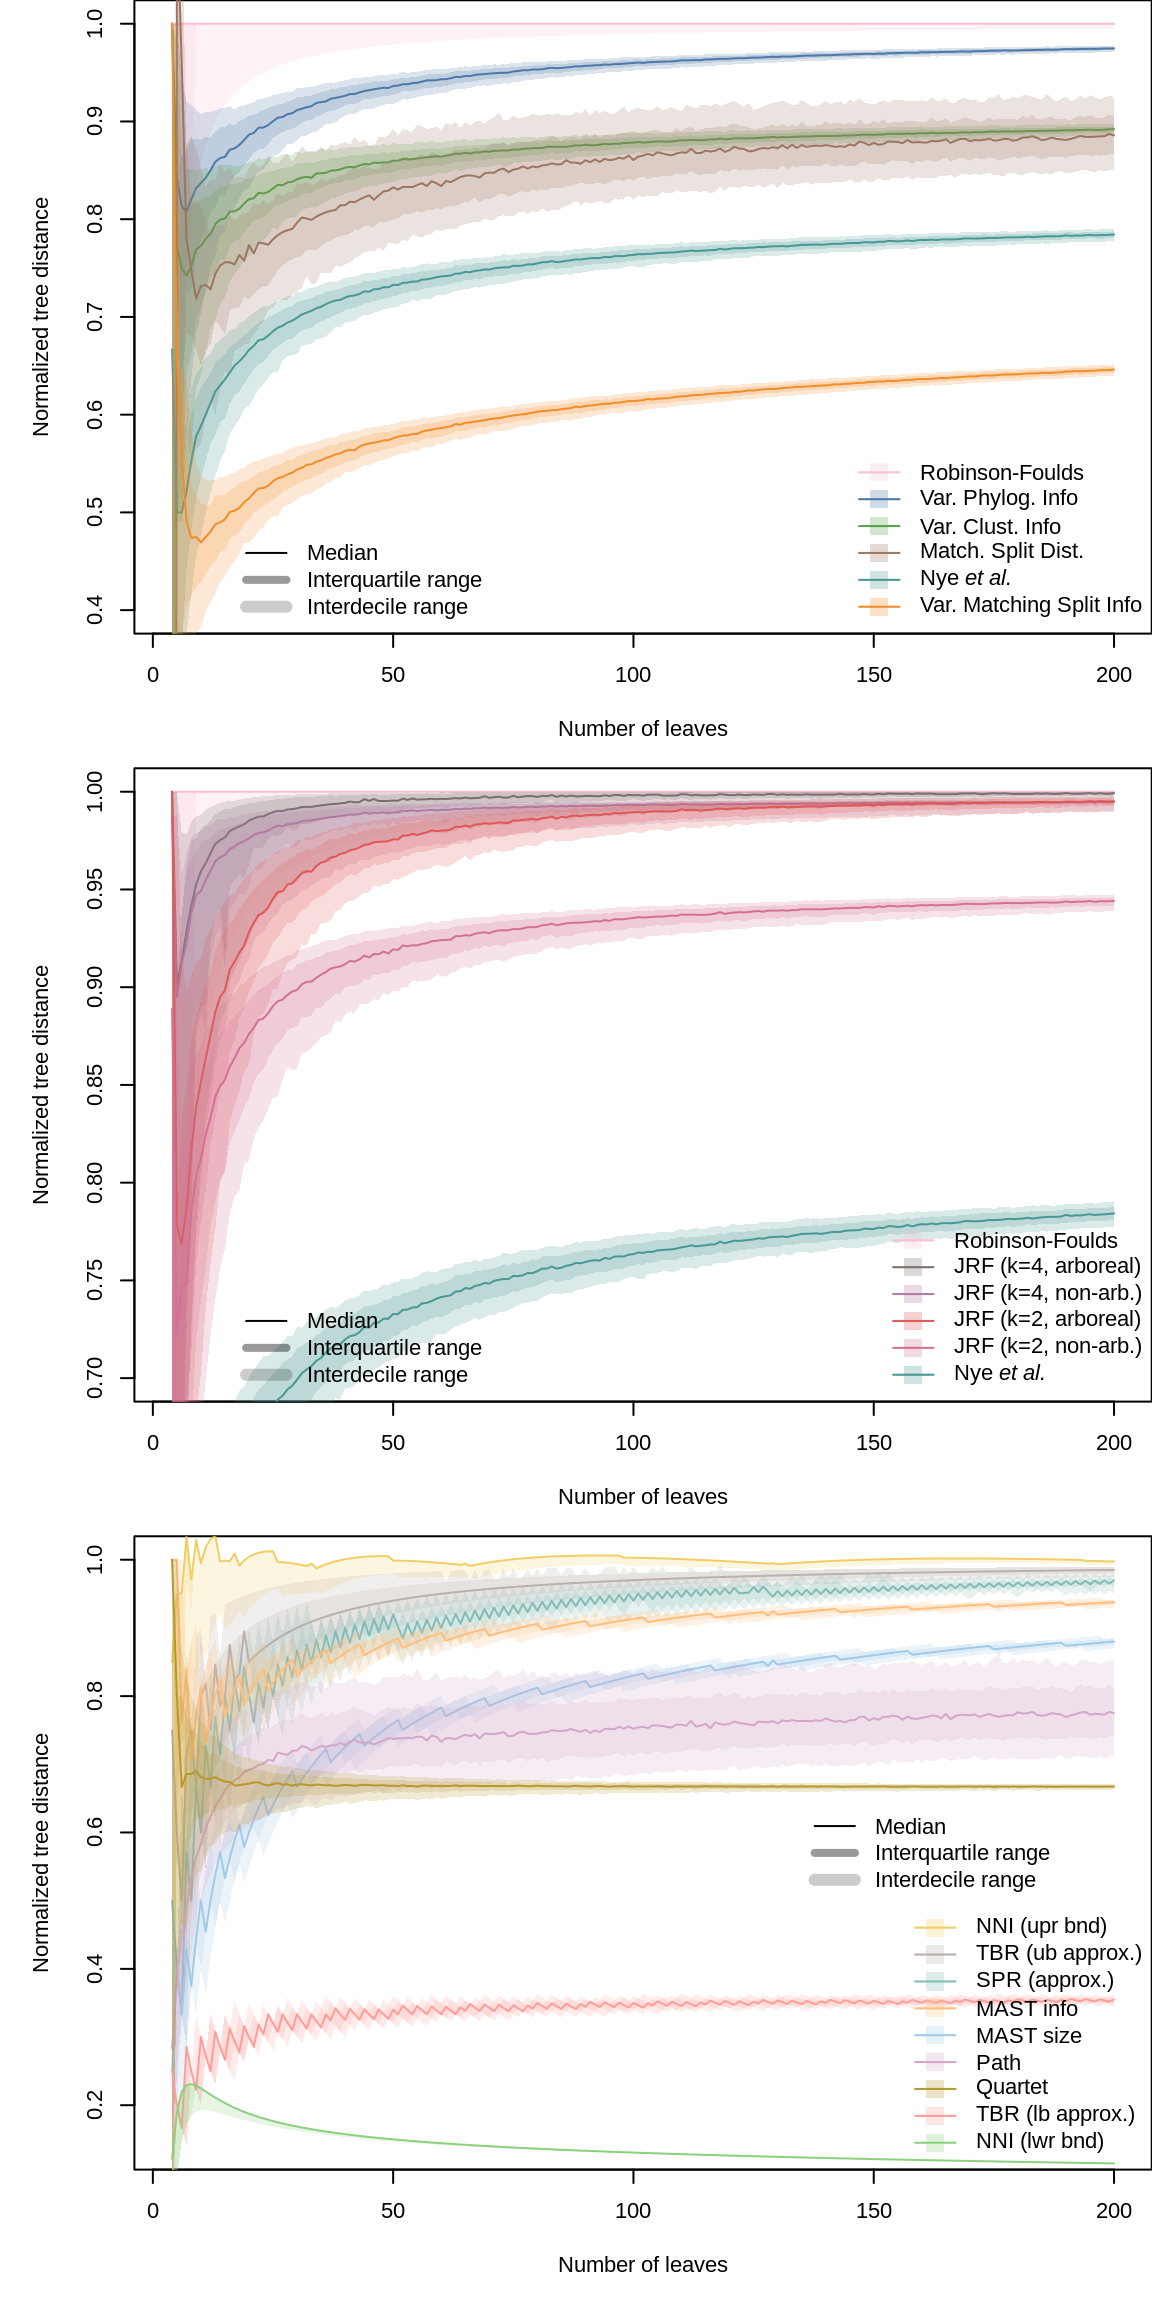
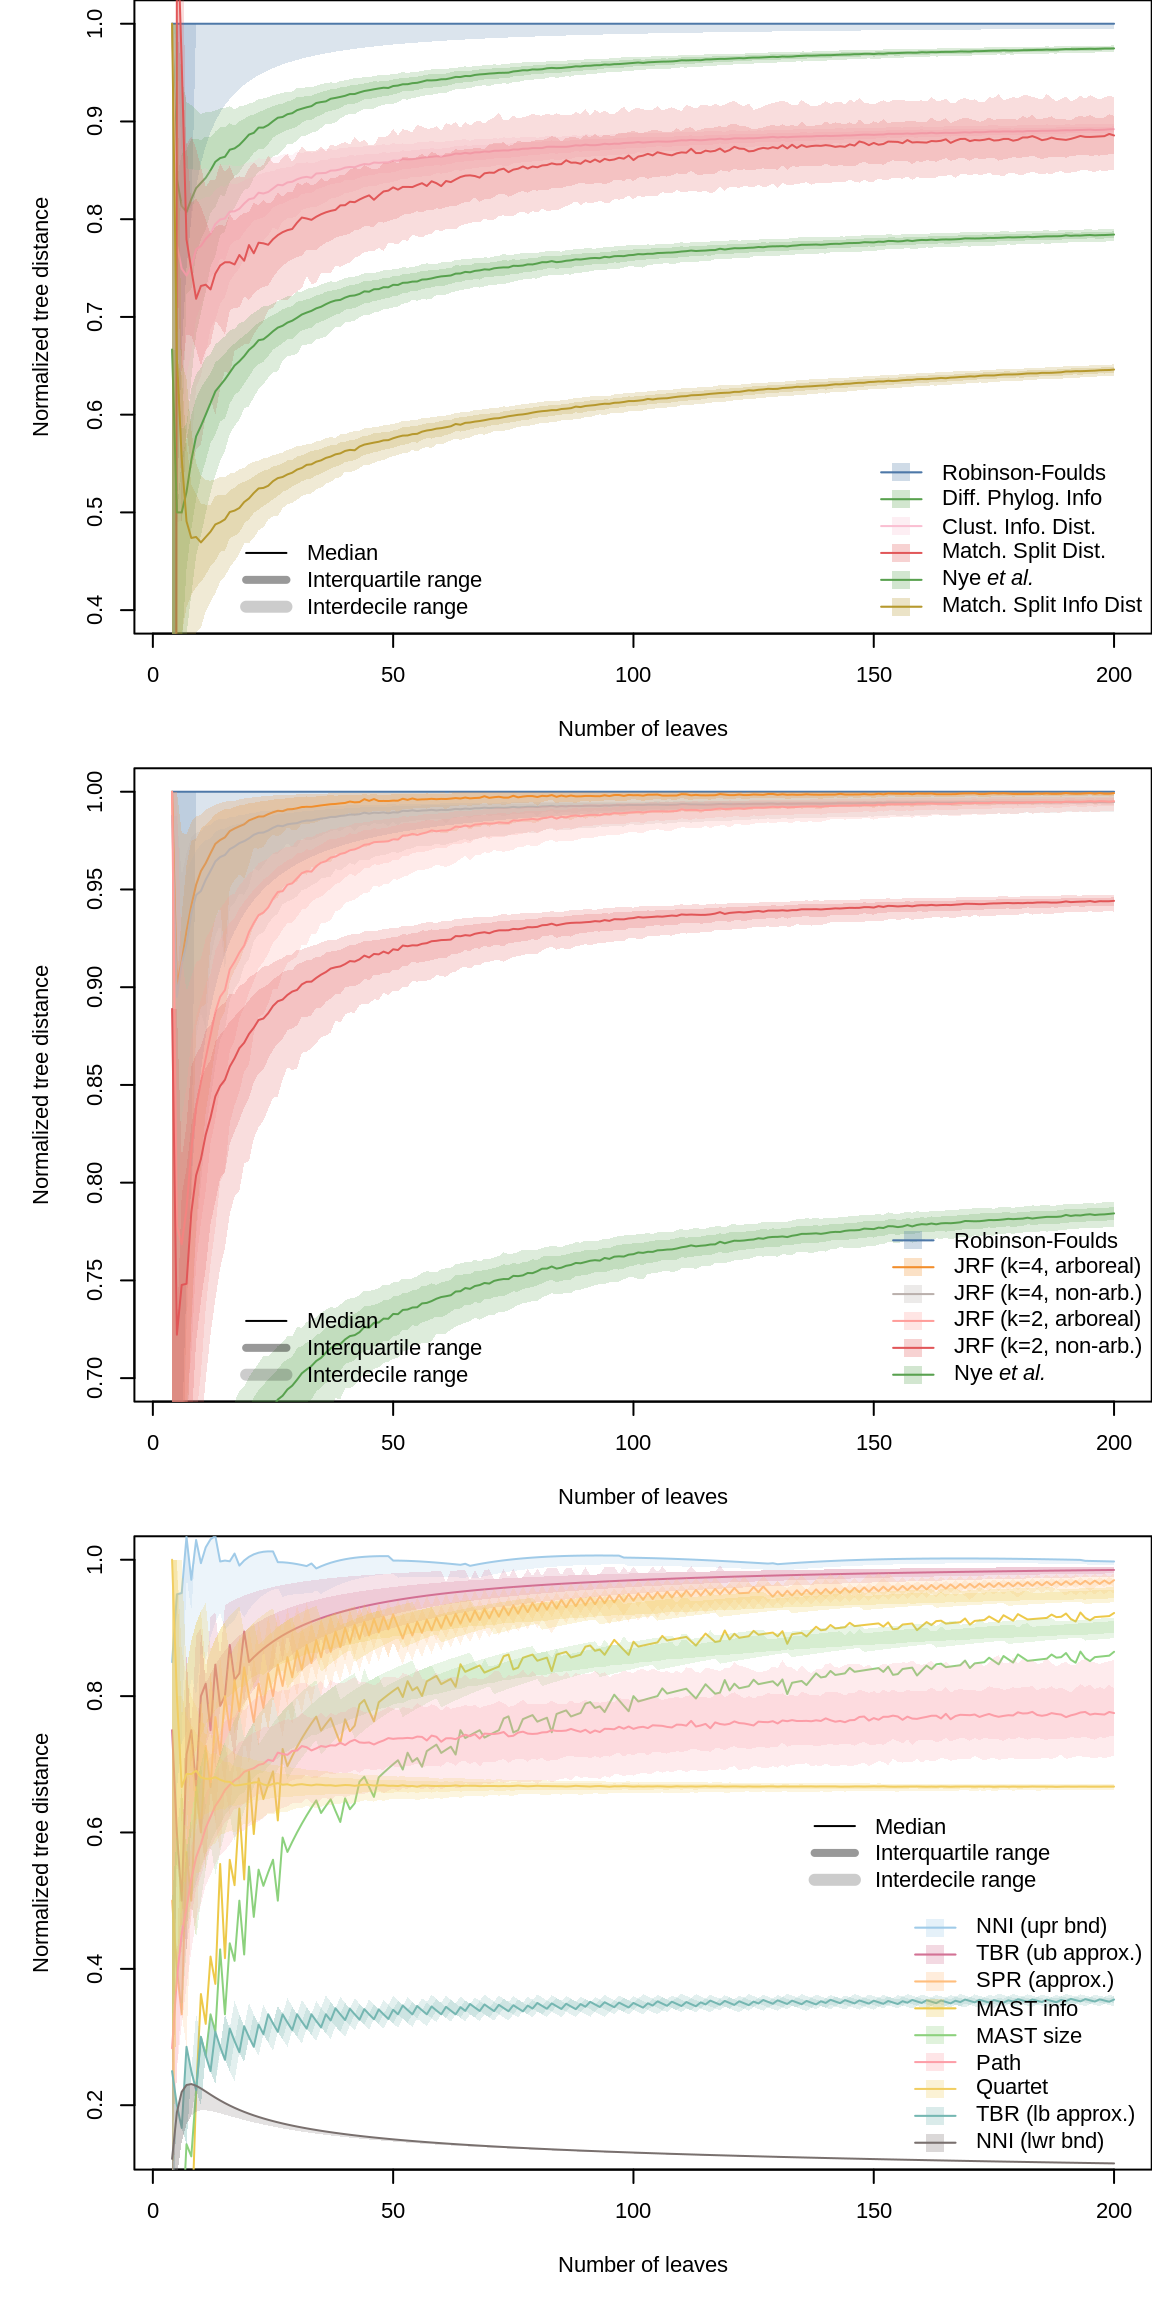
Built site for TreeDist: 0.0.0.9000@fee0a2e

diff --git a/articles/using-distances.html b/articles/using-distances.html
@@ -117,7 +117,7 @@
       <h1>Contextualizing tree distances</h1>
                         <h4 class="author"><a href="https://community.dur.ac.uk/martin.smith/">Martin R. Smith</a></h4>
             
-            <h4 class="date">2020-01-28</h4>
+            <h4 class="date">2020-02-04</h4>
       
       <small class="dont-index">Source: <a href="https://github.com/ms609/TreeDist/blob/master/vignettes/using-distances.Rmd"><code>vignettes/using-distances.Rmd</code></a></small>
       <div class="hidden name"><code>using-distances.Rmd</code></div>
@@ -185,12 +185,12 @@ In such a context, it can be relevant to normalize tree similarity against the <
 <div class="sourceCode" id="cb17"><pre class="sourceCode r"><code class="sourceCode r"><a class="sourceLine" id="cb17-1" data-line-number="1"><span class="cf">if</span> (<span class="kw"><a href="https://rdrr.io/r/base/library.html">require</a></span>(<span class="st">'TreeDistData'</span>)) {</a>
 <a class="sourceLine" id="cb17-2" data-line-number="2"><span class="kw"><a href="https://rdrr.io/r/utils/data.html">data</a></span>(<span class="st">'randomTreeDistances'</span>, <span class="dt">package=</span><span class="st">'TreeDistData'</span>)</a>
 <a class="sourceLine" id="cb17-3" data-line-number="3"></a>
-<a class="sourceLine" id="cb17-4" data-line-number="4">methods &lt;-<span class="st"> </span><span class="kw"><a href="https://rdrr.io/r/base/c.html">c</a></span>(<span class="st">'vpi'</span>, <span class="st">'vci'</span>, <span class="st">'nts'</span>, <span class="st">'qd'</span>) <span class="co">#TODO Update</span></a>
-<a class="sourceLine" id="cb17-5" data-line-number="5">methodCol &lt;-<span class="st"> </span><span class="kw"><a href="https://rdrr.io/r/base/c.html">c</a></span>(<span class="dt">vpi =</span> <span class="st">'#e15659'</span>, <span class="dt">vci =</span> <span class="st">'#58a14e'</span>, <span class="dt">nts =</span> <span class="st">'#edc949'</span>, <span class="dt">qd =</span> <span class="st">'#af7aa1'</span>)</a>
+<a class="sourceLine" id="cb17-4" data-line-number="4">methods &lt;-<span class="st"> </span><span class="kw"><a href="https://rdrr.io/r/base/c.html">c</a></span>(<span class="st">'dpi'</span>, <span class="st">'cid'</span>, <span class="st">'nts'</span>, <span class="st">'qd'</span>)</a>
+<a class="sourceLine" id="cb17-5" data-line-number="5">methodCol &lt;-<span class="st"> </span><span class="kw"><a href="https://rdrr.io/r/base/c.html">c</a></span>(<span class="dt">dpi =</span> <span class="st">'#e15659'</span>, <span class="dt">cid =</span> <span class="st">'#58a14e'</span>, <span class="dt">nts =</span> <span class="st">'#edc949'</span>, <span class="dt">qd =</span> <span class="st">'#af7aa1'</span>)</a>
 <a class="sourceLine" id="cb17-6" data-line-number="6"></a>
 <a class="sourceLine" id="cb17-7" data-line-number="7"><span class="kw"><a href="https://rdrr.io/r/graphics/par.html">par</a></span>(<span class="dt">cex =</span> <span class="fl">0.7</span>, <span class="dt">mar=</span><span class="kw"><a href="https://rdrr.io/r/base/c.html">c</a></span>(<span class="dv">5</span>, <span class="dv">5</span>, <span class="fl">0.01</span>, <span class="fl">0.01</span>))</a>
 <a class="sourceLine" id="cb17-8" data-line-number="8">nLeaves &lt;-<span class="st"> </span><span class="kw"><a href="https://rdrr.io/r/base/integer.html">as.integer</a></span>(<span class="kw"><a href="https://rdrr.io/r/base/dimnames.html">dimnames</a></span>(randomTreeDistances)[[<span class="dv">3</span>]])</a>
-<a class="sourceLine" id="cb17-9" data-line-number="9"><span class="kw"><a href="https://rdrr.io/r/graphics/plot.html">plot</a></span>(nLeaves, <span class="dt">type=</span><span class="st">'n'</span>, randomTreeDistances[<span class="st">'vpi'</span>, <span class="st">'mean'</span>, ], <span class="dt">ylim=</span><span class="kw"><a href="https://rdrr.io/r/base/c.html">c</a></span>(<span class="fl">0.4</span>, <span class="dv">1</span>), </a>
+<a class="sourceLine" id="cb17-9" data-line-number="9"><span class="kw"><a href="https://rdrr.io/r/graphics/plot.html">plot</a></span>(nLeaves, <span class="dt">type=</span><span class="st">'n'</span>, randomTreeDistances[<span class="st">'dpi'</span>, <span class="st">'mean'</span>, ], <span class="dt">ylim=</span><span class="kw"><a href="https://rdrr.io/r/base/c.html">c</a></span>(<span class="fl">0.4</span>, <span class="dv">1</span>), </a>
 <a class="sourceLine" id="cb17-10" data-line-number="10">     <span class="dt">xlab =</span> <span class="st">"Number of leaves"</span>, </a>
 <a class="sourceLine" id="cb17-11" data-line-number="11">     <span class="dt">ylab =</span> <span class="st">"Normalized distance between random tree pairs"</span>)</a>
 <a class="sourceLine" id="cb17-12" data-line-number="12"></a>
@@ -208,11 +208,10 @@ In such a context, it can be relevant to normalize tree similarity against the <
 <a class="sourceLine" id="cb17-24" data-line-number="24">       <span class="kw"><a href="https://rdrr.io/r/base/expression.html">expression</a></span>(<span class="kw"><a href="https://rdrr.io/r/base/paste.html">paste</a></span>(<span class="kw"><a href="https://rdrr.io/r/grDevices/plotmath.html">plain</a></span>(<span class="st">'Nye '</span>), <span class="kw"><a href="https://rdrr.io/r/grDevices/plotmath.html">italic</a></span>(<span class="st">'et al.'</span>))),</a>
 <a class="sourceLine" id="cb17-25" data-line-number="25">       <span class="st">'Quartet divergence'</span></a>
 <a class="sourceLine" id="cb17-26" data-line-number="26">       ), <span class="dt">col=</span> methodCol[methods], <span class="dt">pos=</span><span class="dv">2</span>)</a>
-<a class="sourceLine" id="cb17-27" data-line-number="27">}</a>
-<a class="sourceLine" id="cb17-28" data-line-number="28">## Loading required package: TreeDistData</a></code></pre></div>
-<p><img src="using-distances_files/figure-html/unnamed-chunk-9-1.png" width="700"></p>
+<a class="sourceLine" id="cb17-27" data-line-number="27">}</a></code></pre></div>
+<p><img src="using-distances_files/figure-html/unnamed-chunk-9-1.png" width="672"></p>
 <p>or use these calculated values to normalize our tree distance:</p>
-<div class="sourceCode" id="cb18"><pre class="sourceCode r"><code class="sourceCode r"><a class="sourceLine" id="cb18-1" data-line-number="1">expectedCID &lt;-<span class="st"> </span>randomTreeDistances[<span class="st">'vci'</span>, <span class="st">'mean'</span>, <span class="st">'9'</span>]</a>
+<div class="sourceCode" id="cb18"><pre class="sourceCode r"><code class="sourceCode r"><a class="sourceLine" id="cb18-1" data-line-number="1">expectedCID &lt;-<span class="st"> </span>randomTreeDistances[<span class="st">'cid'</span>, <span class="st">'mean'</span>, <span class="st">'9'</span>]</a>
 <a class="sourceLine" id="cb18-2" data-line-number="2"><span class="kw"><a href="../reference/TreeDistance.html">ClusteringInfoDistance</a></span>(tree1, tree2, <span class="dt">normalize =</span> <span class="ot">TRUE</span>) <span class="op">/</span><span class="st"> </span>expectedCID</a></code></pre></div>
 </div>
 </div>

diff --git a/articles/Using-TreeDist.html b/articles/Using-TreeDist.html
@@ -117,7 +117,7 @@
       <h1>Calculate tree similarity with TreeDist</h1>
                         <h4 class="author">Martin R. Smith</h4>
             
-            <h4 class="date">2020-01-28</h4>
+            <h4 class="date">2020-02-04</h4>
       
       <small class="dont-index">Source: <a href="https://github.com/ms609/TreeDist/blob/master/vignettes/Using-TreeDist.Rmd"><code>vignettes/Using-TreeDist.Rmd</code></a></small>
       <div class="hidden name"><code>Using-TreeDist.Rmd</code></div>
@@ -163,11 +163,11 @@
 <a class="sourceLine" id="cb6-5" data-line-number="5"></a>
 <a class="sourceLine" id="cb6-6" data-line-number="6"><span class="kw"><a href="../reference/TreeDistance.html">TreeDistance</a></span>(oneTree, twoTrees)</a></code></pre></div>
 <pre><code>##       one       two 
-## 0.1448946 0.1061215</code></pre>
+## 0.1858515 0.2094310</code></pre>
 <div class="sourceCode" id="cb8"><pre class="sourceCode r"><code class="sourceCode r"><a class="sourceLine" id="cb8-1" data-line-number="1"><span class="kw"><a href="../reference/TreeDistance.html">TreeDistance</a></span>(twoTrees, threeTrees)</a></code></pre></div>
 <pre><code>##             a         b         c
-## one 0.3864584 0.3045299 0.2618628
-## two 0.3273951 0.1821916 0.1284379</code></pre>
+## one 0.3029817 0.1692150 0.2032803
+## two 0.2330369 0.1674137 0.2468127</code></pre>
 </div>
 </div>
 <div id="visualizing-a-matching" class="section level2">

diff --git a/articles/Tree-distance-metric-evaluation.html b/articles/Tree-distance-metric-evaluation.html
@@ -117,7 +117,7 @@
       <h1>Interpreting tree distance metrics</h1>
                         <h4 class="author">Martin R. Smith</h4>
             
-            <h4 class="date">2020-01-28</h4>
+            <h4 class="date">2020-02-04</h4>
       
       <small class="dont-index">Source: <a href="https://github.com/ms609/TreeDist/blob/master/vignettes/Tree-distance-metric-evaluation.Rmd"><code>vignettes/Tree-distance-metric-evaluation.Rmd</code></a></small>
       <div class="hidden name"><code>Tree-distance-metric-evaluation.Rmd</code></div>

diff --git a/articles/Robinson-Foulds.html b/articles/Robinson-Foulds.html
@@ -117,7 +117,7 @@
       <h1>Extending the Robinson-Foulds metric</h1>
                         <h4 class="author">Martin R. Smith</h4>
             
-            <h4 class="date">2020-01-28</h4>
+            <h4 class="date">2020-02-04</h4>
       
       <small class="dont-index">Source: <a href="https://github.com/ms609/TreeDist/blob/master/vignettes/Robinson-Foulds.Rmd"><code>vignettes/Robinson-Foulds.Rmd</code></a></small>
       <div class="hidden name"><code>Robinson-Foulds.Rmd</code></div>

diff --git a/articles/Generalized-RF.html b/articles/Generalized-RF.html
@@ -117,7 +117,7 @@
       <h1>Generalized Robinson-Foulds distances</h1>
                         <h4 class="author">Martin R. Smith</h4>
             
-            <h4 class="date">2020-01-28</h4>
+            <h4 class="date">2020-02-04</h4>
       
       <small class="dont-index">Source: <a href="https://github.com/ms609/TreeDist/blob/master/vignettes/Generalized-RF.Rmd"><code>vignettes/Generalized-RF.Rmd</code></a></small>
       <div class="hidden name"><code>Generalized-RF.Rmd</code></div>

diff --git a/articles/information.html b/articles/information.html
@@ -117,7 +117,7 @@
       <h1>Comparing splits using information theory</h1>
                         <h4 class="author">Martin R. Smith</h4>
             
-            <h4 class="date">2020-01-28</h4>
+            <h4 class="date">2020-02-04</h4>
       
       <small class="dont-index">Source: <a href="https://github.com/ms609/TreeDist/blob/master/vignettes/information.Rmd"><code>vignettes/information.Rmd</code></a></small>
       <div class="hidden name"><code>information.Rmd</code></div>
